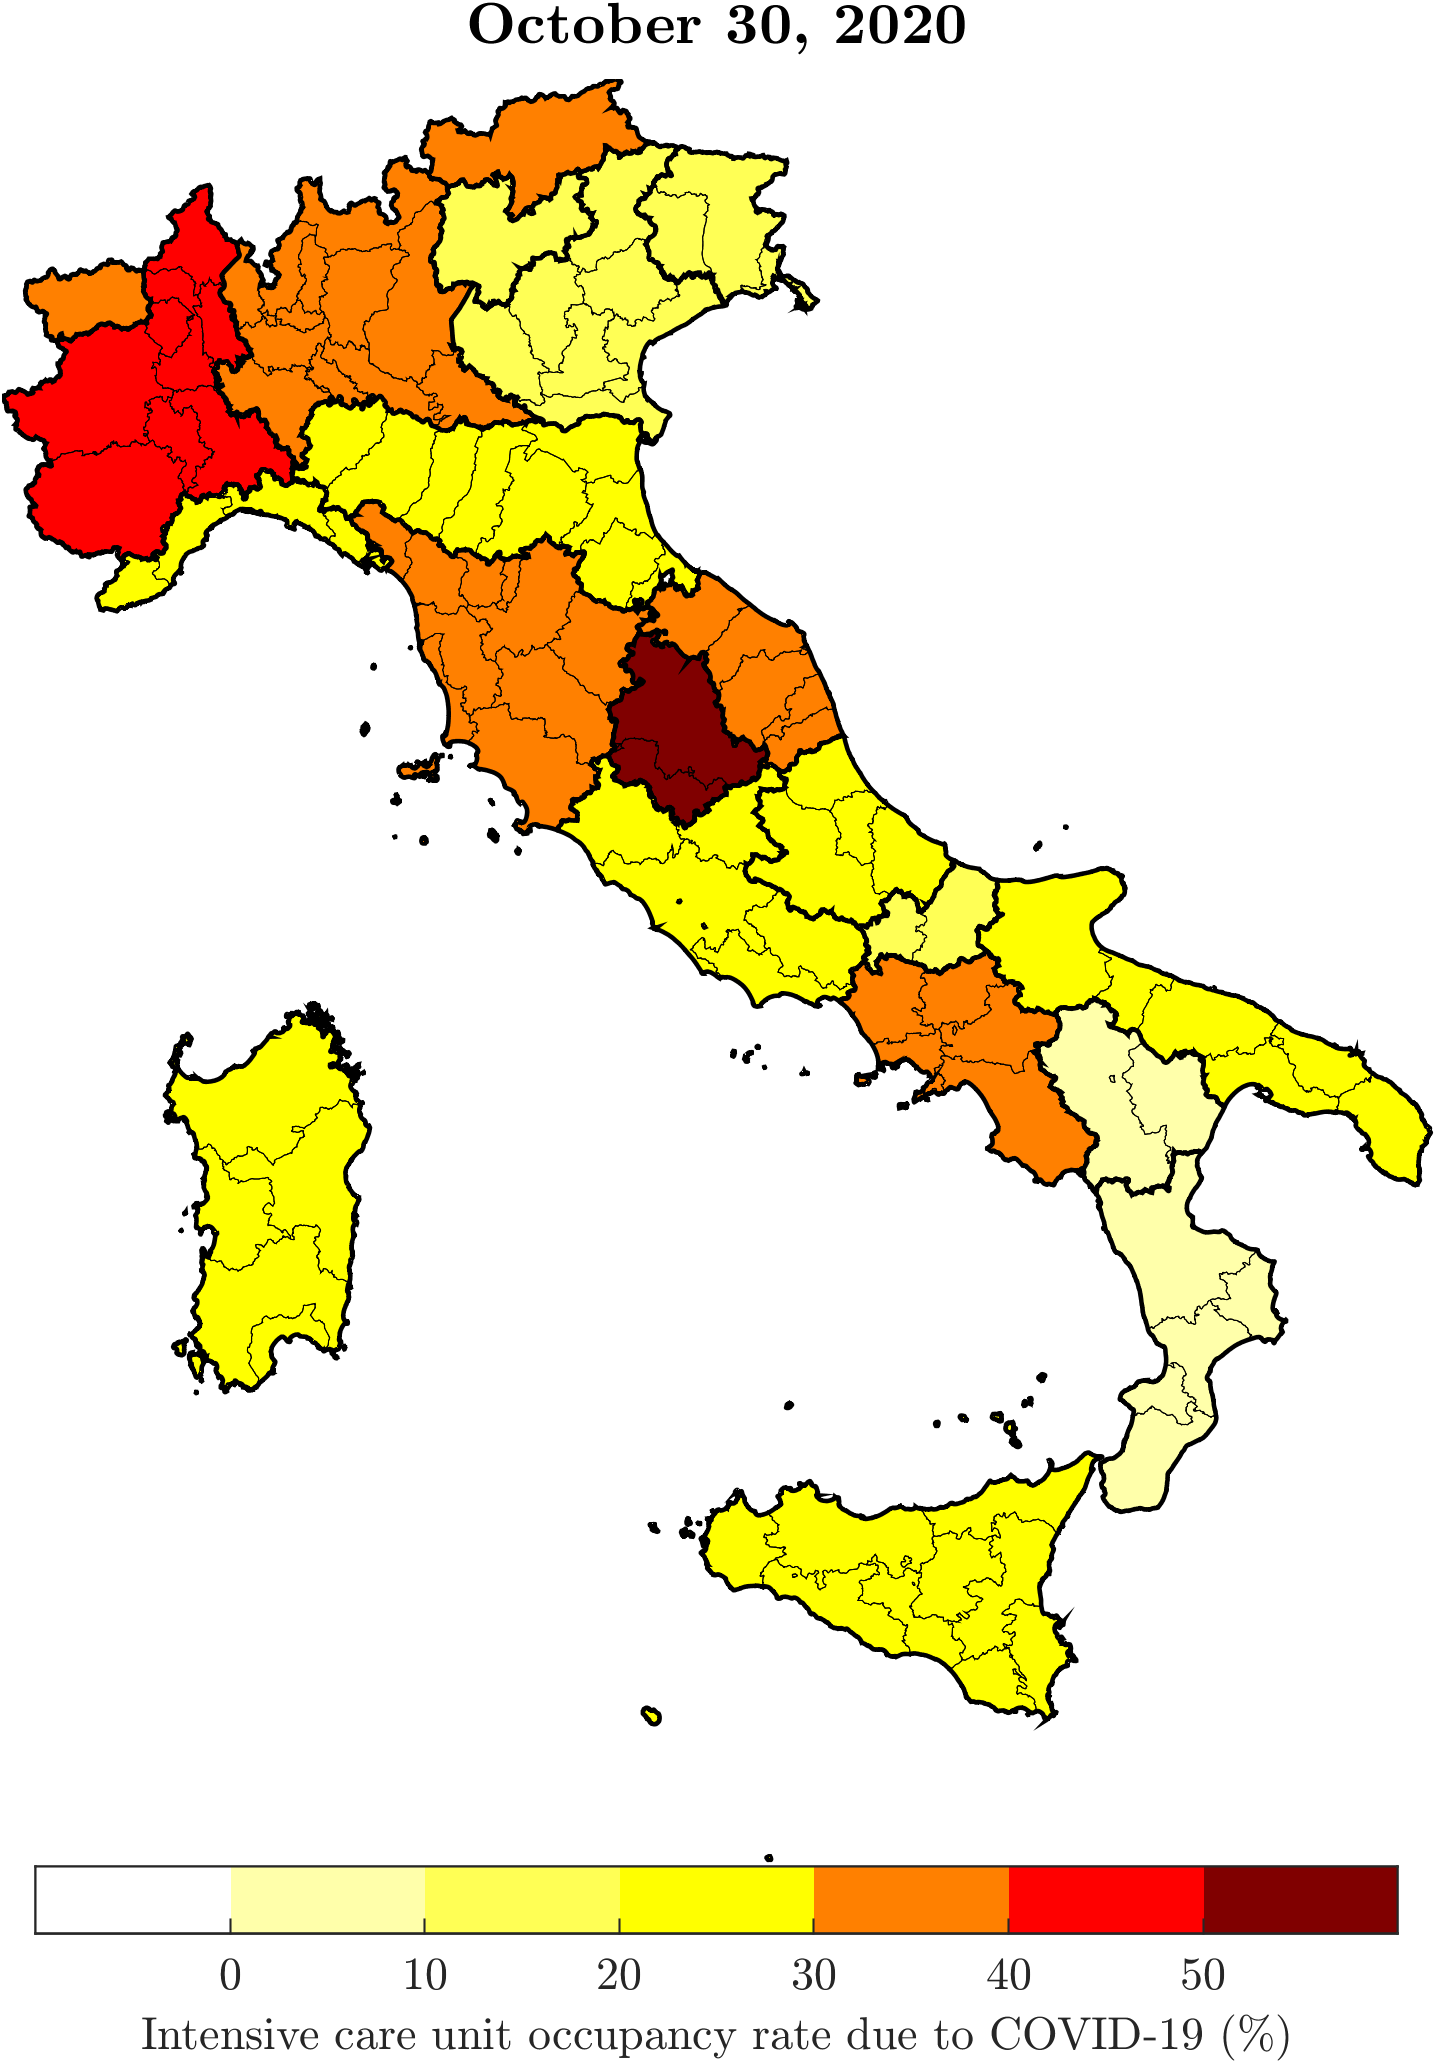
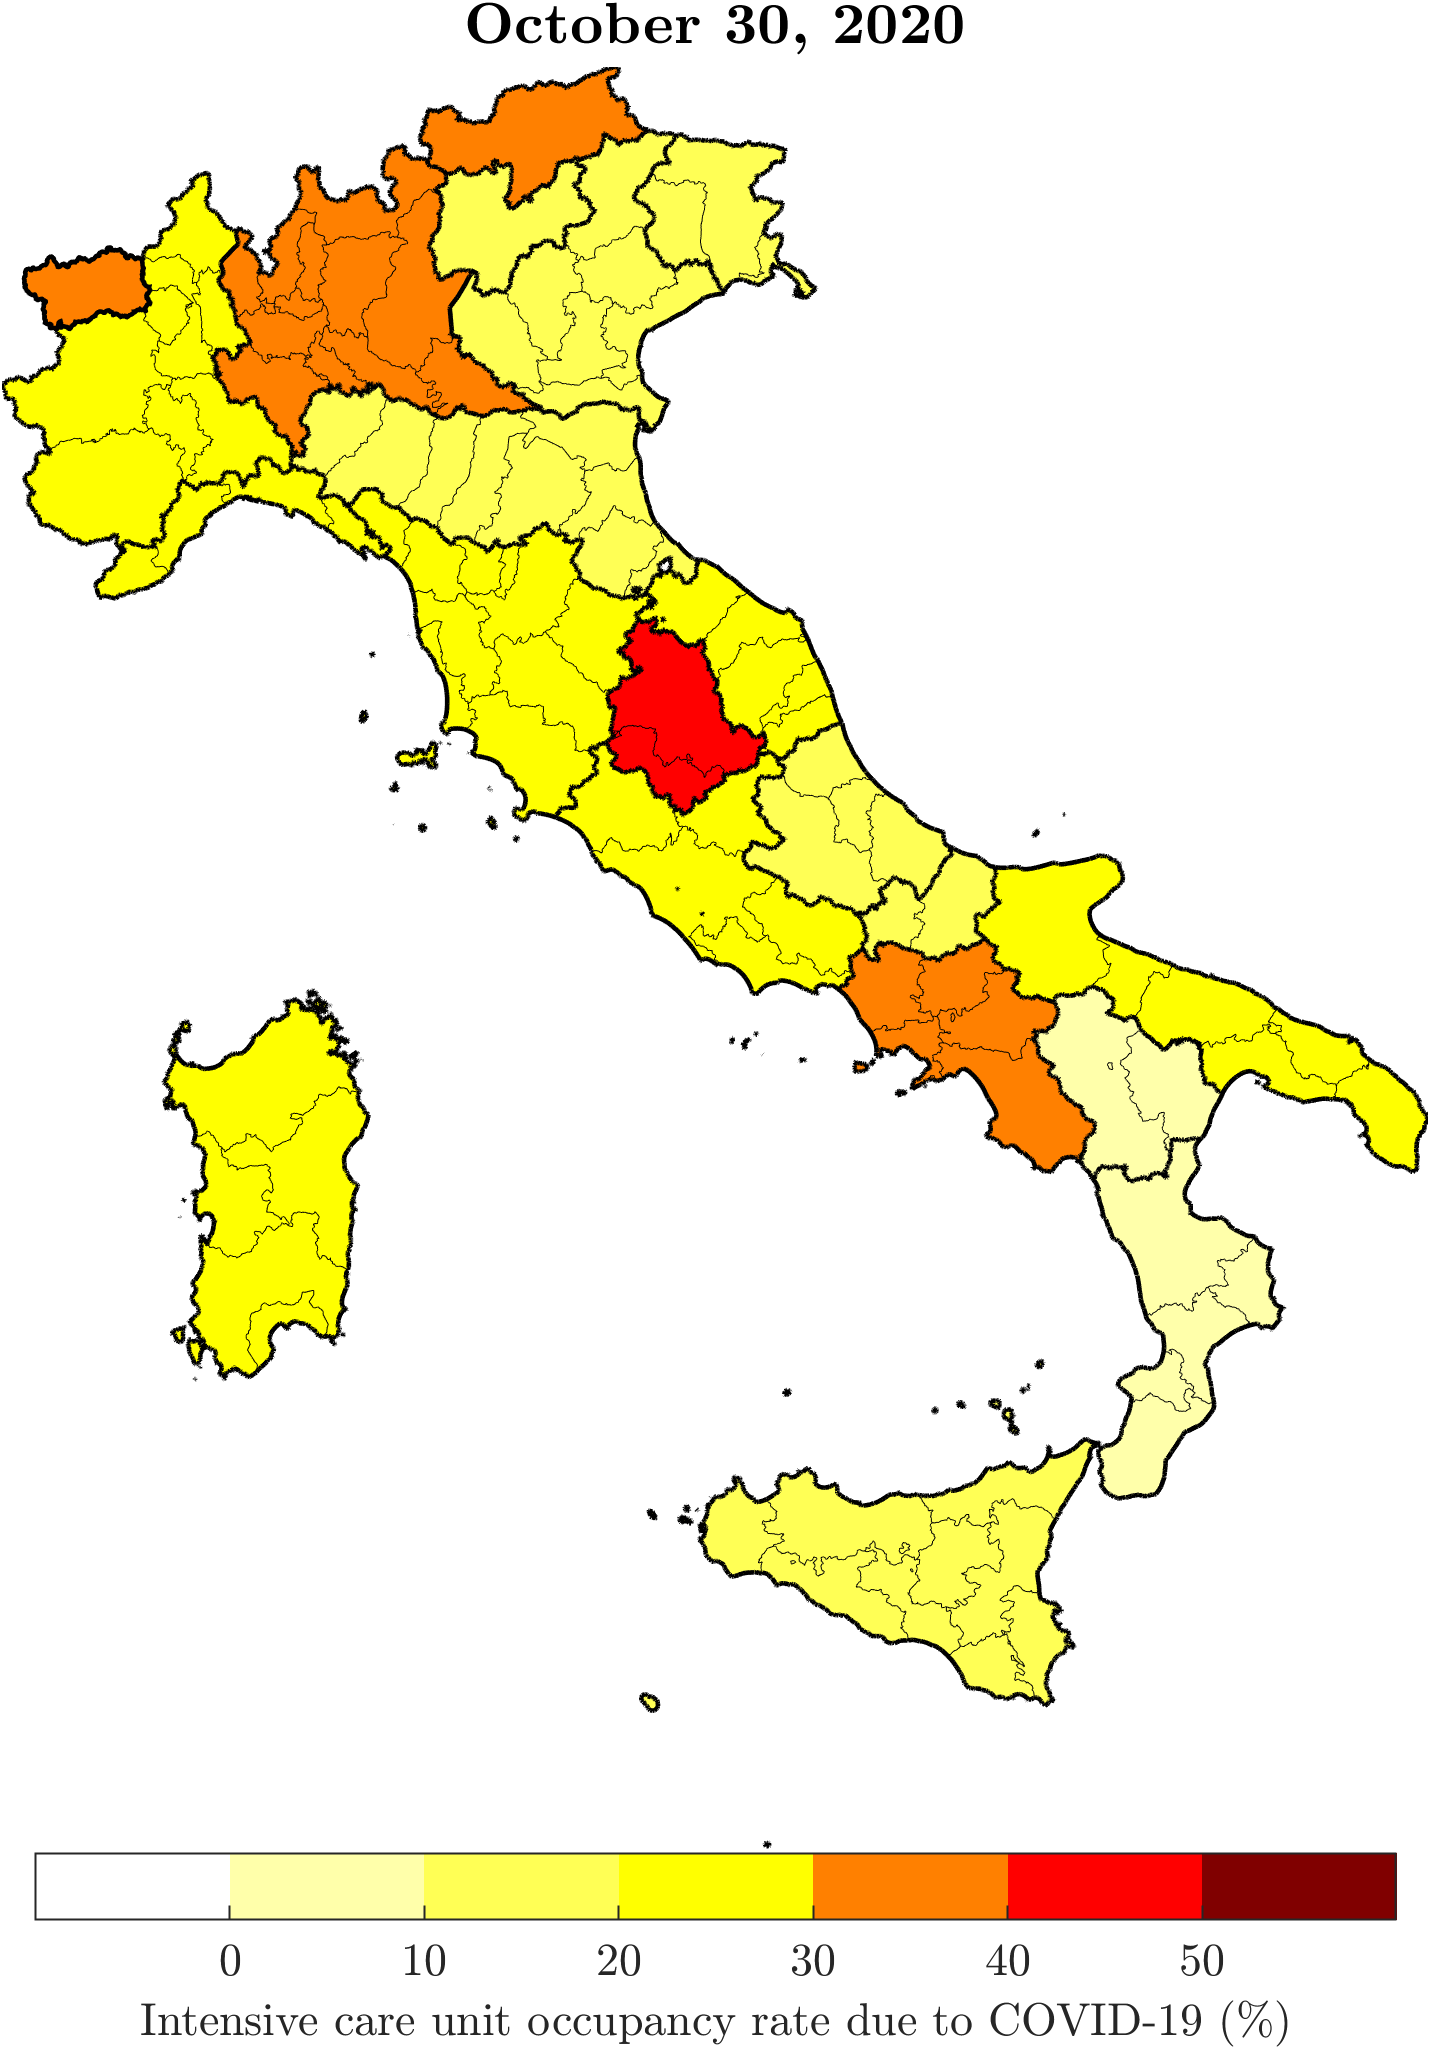
Nov 2

diff --git a/matlab/main_covid_hotspots.m b/matlab/main_covid_hotspots.m
@@ -25,8 +25,8 @@ n_provs = size(prov_names, 1);     % Number of provinces
 % Get date
 
 % first_day_back = datetime('01-07-2020', 'InputFormat', 'dd-MM-yyyy');
-first_day_back = datetime('01-11-2020', 'InputFormat', 'dd-MM-yyyy');
-last_day_back = datetime('01-11-2020', 'InputFormat', 'dd-MM-yyyy');
+first_day_back = datetime('02-11-2020', 'InputFormat', 'dd-MM-yyyy');
+last_day_back = datetime('02-11-2020', 'InputFormat', 'dd-MM-yyyy');
 n_days_back = days(last_day_back - first_day_back);
 for days_back = 0:n_days_back
 

diff --git a/matlab/main_covid_icu.m b/matlab/main_covid_icu.m
@@ -17,8 +17,8 @@ n_regs = size(reg_names, 1);     % Number of regions
 
 % Date
 % first_day_back = datetime('01-10-2020', 'InputFormat', 'dd-MM-yyyy');
-first_day_back = datetime('01-11-2020', 'InputFormat', 'dd-MM-yyyy');
-last_day_back = datetime('01-11-2020', 'InputFormat', 'dd-MM-yyyy');
+first_day_back = datetime('28-10-2020', 'InputFormat', 'dd-MM-yyyy');
+last_day_back = datetime('02-11-2020', 'InputFormat', 'dd-MM-yyyy');
 n_days_back = days(last_day_back - first_day_back);
 for days_back = 0:n_days_back
 
